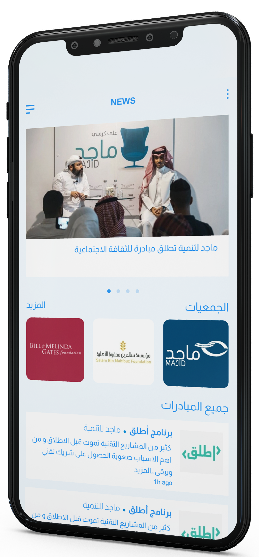
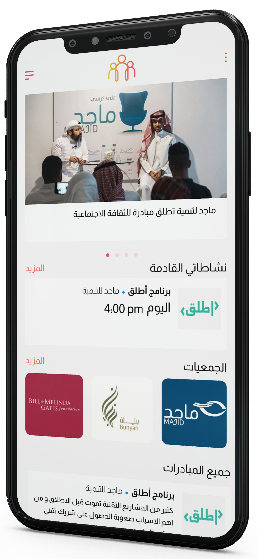
cards up

diff --git a/app/templates/app/homepage.html b/app/templates/app/homepage.html
@@ -9,7 +9,7 @@
     <link rel="icon" type="image/png" sizes="32x32" href="{% static '/images/favicon/favicon-32x32.png' %}">
     <link rel="icon" type="image/png" sizes="16x16" href="{% static '/images/favicon/favicon-16x16.png' %}">
     <link rel="manifest" href="{% static '/images/favicon/site.webmanifest' %}">
-    <link rel="mask-icon" href="{% static '/images/favicon/safari-pinned-tab.svg" color="#5bbad5">
+    <link rel="mask-icon" href="{% static '/images/favicon/safari-pinned-tab.svg' %}" color="#5bbad5">
     <meta name="msapplication-TileColor" content="#da532c">
     <meta name="theme-color" content="#ffffff">
     <link rel="stylesheet" rel="stylesheet" href="{% static 'css/bootstrap.rtl.css'%}">
@@ -18,7 +18,7 @@
     <link rel="shortcut icon" type="image/png" href="{% static 'favicon.ico' %}"/>
 
     
-    <title>Ajed</title>
+    <title>مدار</title>
 </head>
 <body>
     <nav class="navbar navbar-expand-lg">
@@ -60,15 +60,15 @@
     <section>
        <div class="hero-banner">
            <div class="row">
-               <div class="col-lg-9 col-12">
+               <div class="col-lg-8 col-12">
                 <div class="hero-text">
                     حمل التطبيق الان واحجز مقعدك !
                    </div>
                </div>
                
-               <div class="col-lg-3 col-12">
+               <div class="col-lg-4 col-12">
                 <div class="hero-image">
-                    <img class="hero-image-phone" src="{% static 'images/iphone_app.png' %}" alt="">
+                    <a href="https://github.com/YousefBaj/Socialthon"><img class="hero-image-phone" src="{% static 'images/iphone_app.png' %}" alt=""></a>
                 </div>
                </div>
                <div class="col-lg-6"></div>
@@ -76,7 +76,7 @@
                <div class="col-lg-6">
                <div class="row">
                 <div class="col-lg-6 col-6">
-                    <img class="app-store" src="{% static 'images/app-store.svg' %}" alt="">
+                    <a href="https://github.com/YousefBaj/Socialthon"><img class="app-store" src="{% static 'images/app-store.svg' %}" alt=""></a>
                 </div>
 
                 <div class="col-lg-6 col-6">
@@ -90,32 +90,151 @@
     
     <section>
         <div class="container">
+            <section name="initives">
+                <div class="row">
+                <div class="col-lg-12 text-center mb-5">
+                <h1 class="extra_bold">المبادرات</h1>
+                </div>
+                <div class="col-lg-2 col-12">
+                <div class="in_item">
 
-        <div class="row">
-            <div class="col-lg-2 col-12">
-                <div class="in_item">مبادرة</div>
-            </div>
-            <div class="col-lg-2 col-12">
-                <div class="in_item">مبادرة</div>
-            </div>
-            <div class="col-lg-2 col-12">
-                <div class="in_item">مبادرة</div>
-            </div>
-            <div class="col-lg-2 col-12">
-                <div class="in_item">مبادرة</div>
-            </div>
-            <div class="col-lg-2 col-12">
-                <div class="in_item">مبادرة</div>
-            </div>
-            <div class="col-lg-2 col-12">
-                <div class="in_item">مبادرة</div>
-            </div>
-        </div>
+                <div class="in_image">
+                    <img src="{% static 'images/attliq-logo.png' %}">
+                </div>
+                <div class="in_data">كثير من المشاريع التقنية تموت قبل الاطلاق و من اهم الاسباب …</div>
+                </div>
+                </div>
+                <div class="col-lg-2 col-12">
+                <div class="in_item">
 
+                <div class="in_image">
+                    <img src="{% static 'images/attliq-logo.png' %}">
+                </div>
+                <div class="in_data">كثير من المشاريع التقنية تموت قبل الاطلاق و من اهم الاسباب …</div>
+                </div>
+                </div>
+
+                <div class="col-lg-2 col-12">
+                <div class="in_item">
+
+                <div class="in_image">
+                    <img src="{% static 'images/attliq-logo.png' %}">
+                </div>
+                <div class="in_data">كثير من المشاريع التقنية تموت قبل الاطلاق و من اهم الاسباب …</div>
+                </div>
+                </div>
+
+                <div class="col-lg-2 col-12">
+                <div class="in_item">
+
+                <div class="in_image">
+                    <img src="{% static 'images/attliq-logo.png' %}">
+                </div>
+                <div class="in_data">كثير من المشاريع التقنية تموت قبل الاطلاق و من اهم الاسباب …</div>
+                </div>
+                </div>
+
+                <div class="col-lg-2 col-12">
+                <div class="in_item">
+
+                <div class="in_image">
+                    <img src="{% static 'images/attliq-logo.png' %}">
+                </div>
+                <div class="in_data">كثير من المشاريع التقنية تموت قبل الاطلاق و من اهم الاسباب …</div>
+                </div>
+                </div>
+
+                <div class="col-lg-2 col-12">
+                <div class="in_item">
+
+                <div class="in_image">
+                    <img src="{% static 'images/attliq-logo.png' %}">
+                </div>
+                <div class="in_data">كثير من المشاريع التقنية تموت قبل الاطلاق و من اهم الاسباب …</div>
+                </div>
+                </div>
+
+                <div class="col-lg-12 text-center mt-5 mb-5">
+                <a href="#"><h3>المزيد</h3></a>
+                </div>
+
+                </div>
+            </section>
+
+            <section name="soc">
+                <div class="row">
+                <div class="col-lg-12 text-center mb-5">
+                <h1 class="extra_bold">الجمعيات</h1>
+                </div>
+                <div class="col-lg-2 col-12">
+                <div class="in_item">
+
+                <div class="in_image">
+                    <img src="{% static 'images/majid_socity.webp' %}">
+                </div>
+                <div class="in_data">ان تكون ماجد رائدة في بناء منظومة التنمية المستدامه من خلال تبادل الخبرات وتسبيق آليات تمكين الافراد...</div>
+                </div>
+                </div>
+                <div class="col-lg-2 col-12">
+                <div class="in_item">
+
+                <div class="in_image">
+                    <img src="{% static 'images/majid_socity.webp' %}">
+                </div>
+                <div class="in_data">ان تكون ماجد رائدة في بناء منظومة التنمية المستدامه من خلال تبادل الخبرات وتسبيق آليات تمكين الافراد...</div>
+                </div>
+                </div>
+
+                <div class="col-lg-2 col-12">
+                <div class="in_item">
+
+                <div class="in_image">
+                    <img src="{% static 'images/majid_socity.webp' %}">
+                </div>
+                <div class="in_data">ان تكون ماجد رائدة في بناء منظومة التنمية المستدامه من خلال تبادل الخبرات وتسبيق آليات تمكين الافراد...</div>
+                </div>
+                </div>
+
+                <div class="col-lg-2 col-12">
+                <div class="in_item">
+
+                <div class="in_image">
+                    <img src="{% static 'images/majid_socity.webp' %}">
+                </div>
+                <div class="in_data">ان تكون ماجد رائدة في بناء منظومة التنمية المستدامه من خلال تبادل الخبرات وتسبيق آليات تمكين الافراد...</div>
+                </div>
+                </div>
+
+                <div class="col-lg-2 col-12">
+                <div class="in_item">
+
+                <div class="in_image">
+                    <img src="{% static 'images/majid_socity.webp' %}">
+                </div>
+                <div class="in_data">ان تكون ماجد رائدة في بناء منظومة التنمية المستدامه من خلال تبادل الخبرات وتسبيق آليات تمكين الافراد...</div>
+                </div>
+                </div>
+
+                <div class="col-lg-2 col-12">
+                <div class="in_item">
+
+                <div class="in_image">
+                    <img src="{% static 'images/majid_socity.webp' %}">
+                </div>
+                <div class="in_data">ان تكون ماجد رائدة في بناء منظومة التنمية المستدامه من خلال تبادل الخبرات وتسبيق آليات تمكين الافراد...</div>
+                </div>
+                </div>
+
+                <div class="col-lg-12 text-center mt-5">
+                <a href="#"><h3>المزيد</h3></a>
+                </div>
+
+                </div>
+            </section>
+            
     </div>
     </section>
 
-    <div style="height: 300px;"></div>
 
 <script src="{% static 'js/bootstrap.js'%}"></script>
 </body>

diff --git a/static/css/style.css b/static/css/style.css
@@ -85,9 +85,10 @@ nav{
 .hero-image-phone{
   z-index: 2;
   position: relative;
-  left: 100px;
+  left: 0px;
   height: 500px;
   margin-bottom: 50px;
+  margin-right: 50px;
 }
 
 .in_item{
@@ -105,12 +106,14 @@ nav{
   0 41.8px 33.4px rgba(0, 0, 0, 0.05),
   0 100px 80px rgba(0, 0, 0, 0.07);
   transition: 0.4s;
+  font-size: 18px;
 }
 
 .in_item:hover{
 transform: translateY(-20px);
 transition: 0.4s;
 background-color: #F42373;
+color: #fff;
 }
 
 .app-store{
@@ -123,7 +126,13 @@ margin-top: 12px;
   width: 220px;
 }
 
+.in_image{
+  margin-bottom: 5px;
+}
 
+.in_image img {
+  width: 120px;
+}
 
 @media only screen and (max-width: 900px) {
   
